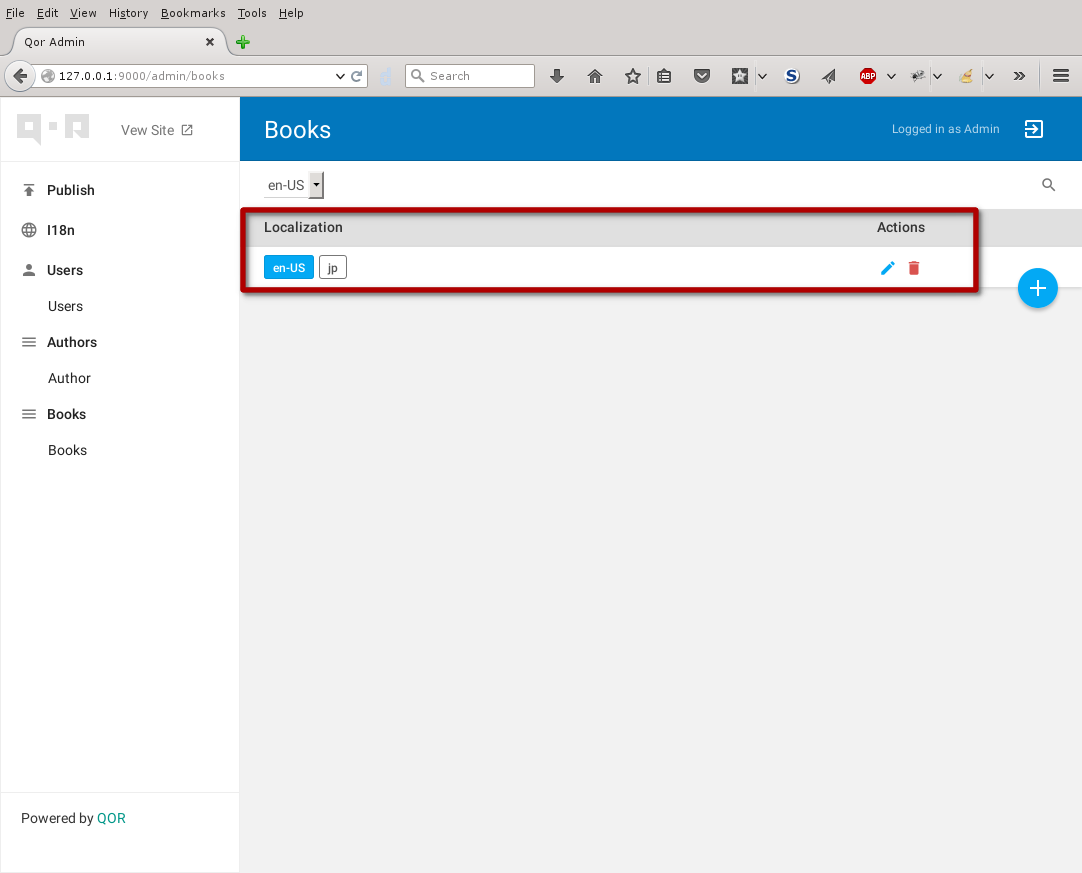
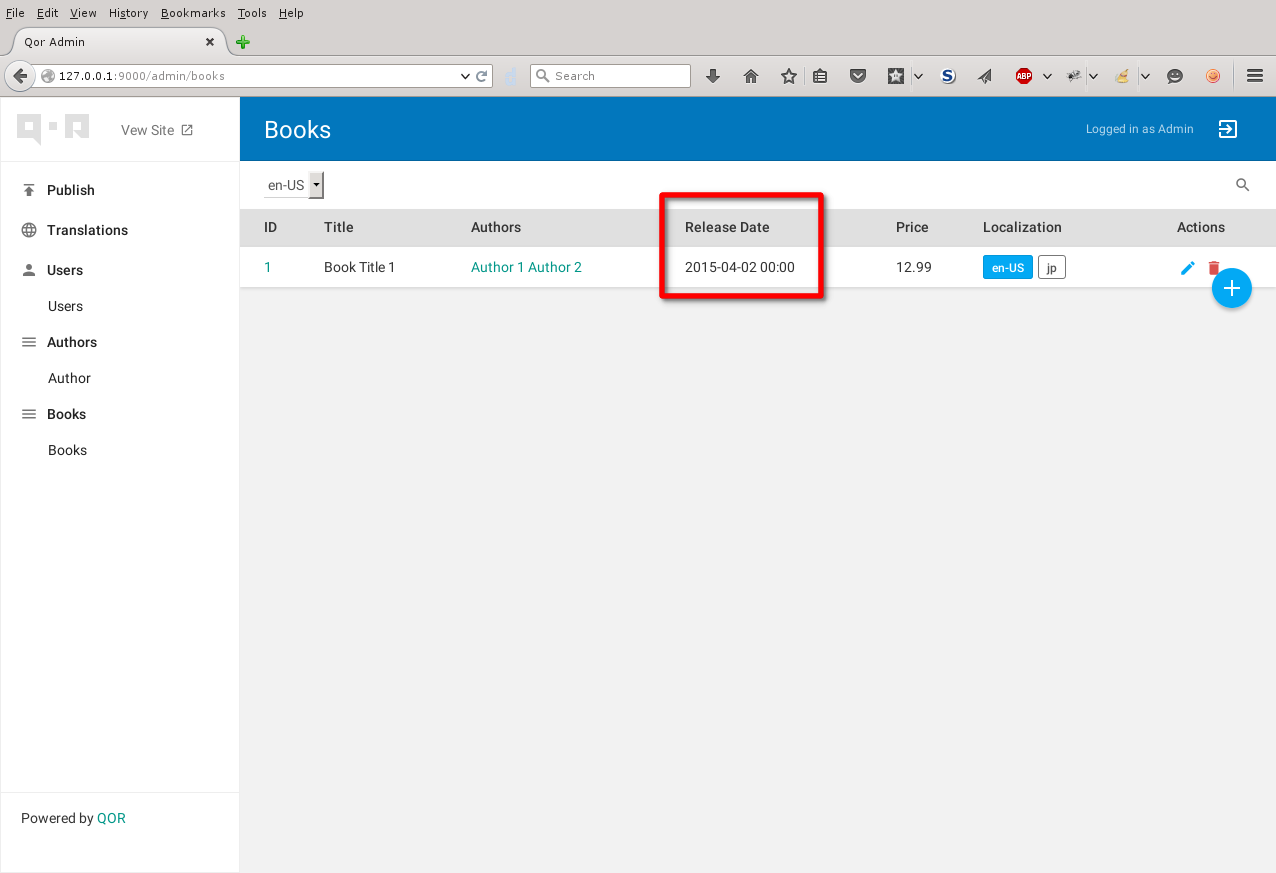
update meta, l10n, and i18n sections

diff --git a/example/tutorial/bookstore/01/app/resources/resources.go b/example/tutorial/bookstore/01/app/resources/resources.go
@@ -1,7 +1,6 @@
 package resources
 
 import (
-	"fmt"
 	"log"
 	"net/http"
 
@@ -103,16 +102,6 @@ func init() {
 		},
 	)
 
-	// alternate price display
-	book.Meta(&admin.Meta{
-		Name:  "DisplayPrice",
-		Label: "Price",
-		Valuer: func(value interface{}, context *qor.Context) interface{} {
-			book := value.(*Book)
-			return fmt.Sprintf("¥%v", book.Price)
-		},
-	})
-
 	book.Meta(&admin.Meta{
 		Name:  "FormattedDate",
 		Label: "Release Date",
@@ -122,42 +111,17 @@ func init() {
 		},
 	})
 
-	// defines the display field for authors in the product list
-	book.Meta(&admin.Meta{
-		Name:  "AuthorNames",
-		Label: "Authors",
-		Valuer: func(value interface{}, context *qor.Context) interface{} {
-			// log.Println("LOCALE:", context.MustGet("locale"))
-			// log.Println("ctxt", context)
-			if value == nil {
-				return value
-			}
-			book := value.(*Book)
-			if err := context.GetDB().Model(&book).Related(&book.Authors, "Authors").Error; err != nil {
-				panic(err)
-			}
-
-			var authors string
-			for i, author := range book.Authors {
-				if i >= 1 {
-					authors += ", "
-				}
-				authors += author.Name
-			}
-			return authors
-		},
-	})
-
 	book.Meta(&admin.Meta{
 		Name: "Synopsis",
 		Type: "rich_editor",
 	})
 
-	// what fields should be displayed in the books list on admin
-	book.IndexAttrs("ID", "Title", "AuthorNames", "FormattedDate", "DisplayPrice")
-	// what fields should be editable in the book esit interface
+	// which fields should be displayed in the books list on admin
+	book.IndexAttrs("ID", "Title", "Authors", "ReleaseDate", "Price")
+	// which fields should be editable in the book esit interface
 	book.NewAttrs("Title", "Authors", "Synopsis", "ReleaseDate", "Price", "CoverImage")
 	book.EditAttrs("Title", "Authors", "Synopsis", "ReleaseDate", "Price", "CoverImage")
+	// which fields should be searched when using the item search on the list view
 	book.SearchAttrs("ID", "Title")
 }
 

diff --git a/example/tutorial/bookstore/README.md b/example/tutorial/bookstore/README.md
@@ -282,42 +282,26 @@ Go ahead and go to the authors admin and add an author...
 #### Meta Module - Controlling display and editable fields in the admin
 
 Go to [http://localhost:9000/admin/books](http://localhost:9000/admin/books).
-Now comment the following line from [resources.go](https://github.com/qor/qor/blob/master/example/tutorial/bookstore/01/app/resources/resources.go)
+Look for the following line from [resources.go](https://github.com/qor/qor/blob/master/example/tutorial/bookstore/01/app/resources/resources.go)
 
-	book.IndexAttrs("ID", "Title", "AuthorNames", "FormattedDate", "DisplayPrice")
+	book.IndexAttrs("ID", "Title", "Authors", "FormattedDate", "Price")
 
-and reload the books admin page.
+and change `FormattedDate` to `ReleaseDate`
 
 ![qor_admin_books2](https://raw.githubusercontent.com/qor/qor/docs_and_tutorial/example/tutorial/bookstore/screenshots/qor_admin_books2.png)
 
-You will see a much more crowded list: We had 5 attributes `"ID", "Title", "AuthorNames", "FormattedDate", and "DisplayPrice"`. `Id`, `Title`, and `ReleaseDate` are defined on our `Book` model, but the others are not. For the Authors field you only see a list of References to the `Author` objects - something like `[0xc208161bc0]`. We want the list of author names devided by `,` instead. You can achieve that by defining a `Meta` field:
+We are getting the value of the `Book.ReleaseDate`. We want to show the date only so we define a `Meta` field:
 
 	book.Meta(&admin.Meta{
-		Name:  "AuthorNames",
-		Label: "Authors",
+		Name:  "FormattedDate",
+		Label: "Release Date",
 		Valuer: func(value interface{}, context *qor.Context) interface{} {
-			// log.Println("LOCALE:", context.MustGet("locale"))
-			// log.Println("ctxt", context)
-			if value == nil {
-				return value
-			}
 			book := value.(*Book)
-			if err := context.GetDB().Model(&book).Related(&book.Authors, "Authors").Error; err != nil {
-				panic(err)
-			}
-
-			var authors string
-			for i, author := range book.Authors {
-				if i >= 1 {
-					authors += ", "
-				}
-				authors += author.Name
-			}
-			return authors
+			return book.ReleaseDate.Format("Jan 2, 2006")
 		},
 	})
 
-We define a `Meta` field for the `book` `Resource`. It's internal name is "AuthorNames", which we use in `book.IndexAttrs()` to use it in our admin book listing. The `Label` is what goes into the table header and the `Valuer` is a function that will return the display value we want - in our case the comma separated list of author names.
+We define a `Meta` field for the `book` `Resource`. It's internal name is "FormattedDate", which we use in `book.IndexAttrs()` to use it in our admin book listing. The `Label` is what goes into the table header and the `Valuer` is a function that will return the display value we want - in our case the formatted date that does not include the time.
 
 
 ##### Editable and Create fields
@@ -453,18 +437,20 @@ Any model you want to have localization support on needs to inherit from l10n.Lo
 Set your default locale (In the example app these are called at the end of the `init()` function in [app/models/models.go](https://github.com/qor/qor/blob/docs_and_tutorial/example/tutorial/bookstore/01/app/models/models.go)):
 
     func init() {
-        l10n.Global = "en"
+        l10n.Global = "en-US"
 	    l10n.RegisterCallbacks(&Db)
     }
 
-
-TODO @jinzhu: what exactly does l10n.RegisterCallbacks
+`l10n.Global = "en-US"` is the default used by the `l10n` package, but better to be explicit here.
+`l10n.RegisterCallbacks` registeres callbacks with `gorm` to keep track of changes in the different locales.
 
 The last step is to define who can view or edit which locales. In `models.go` we have two methods defined on our `User` type:
 
     func (User) ViewableLocales() []string {
     	return []string{l10n.Global, "jp"}
     }
+
+And to make the different locales viewable and
 
     func (user User) EditableLocales() []string {
     	if user.Role == "admin" {
@@ -474,13 +460,14 @@ The last step is to define who can view or edit which locales. In `models.go` we
     	}
     }
 
+to make the different locales editable by the `admin` role.
 
 
 ### I18n - Translating strings
 
     import "github.com/qor/qor/i18n"
 
-To add I18N support for the `qor/admin`
+To add I18N support for `qor/admin` you need to register an `i18n.I18n` resource:
 
     var (
     	Admin *admin.Admin
@@ -498,9 +485,7 @@ To add I18N support for the `qor/admin`
 
 You can find the code in [app/resources/resources.go](https://github.com/qor/qor/blob/docs_and_tutorial/example/tutorial/bookstore/01/app/resources/resources.go)
 
-This gives you the `I18n` menu entry in admin.
-
-TODO: screenshot
+This will give you the `I18n` menu entry in admin.
 
 Go ahead and look for the translation key `qor_admin.I18n` and translate it:
 
@@ -514,14 +499,17 @@ If you go to eg. Authors and set the locale to `jp` you will see your translatio
 
 ![qor_translate3](https://raw.githubusercontent.com/qor/qor/docs_and_tutorial/example/tutorial/bookstore/screenshots/qor_translate3.png)
 
-NB: Currently the example app is set up in a way that only
+NB: Currently the example app is set up in a way that translation keys are added to the database the first time they are read from templates. In order to see all the keys you have to access each page where they are used once.
 
+TODO: Add an example on how to import keys from eg. a YAML file.
 
 
 
 ### Frontend
 
-QOR does not provide any builtin templating or routing support - use whatever library is best fit for your needs. In this tutorial we will use [gin](https://github.com/gin-gonic/gin) and the stl `html/template`s.
+QOR does not provide any builtin templating or routing support - you can use whatever library is best fit for your needs. In this example application tutorial we use [gin](https://github.com/gin-gonic/gin).
+
+
 
 http://localhost:9000/books
 
